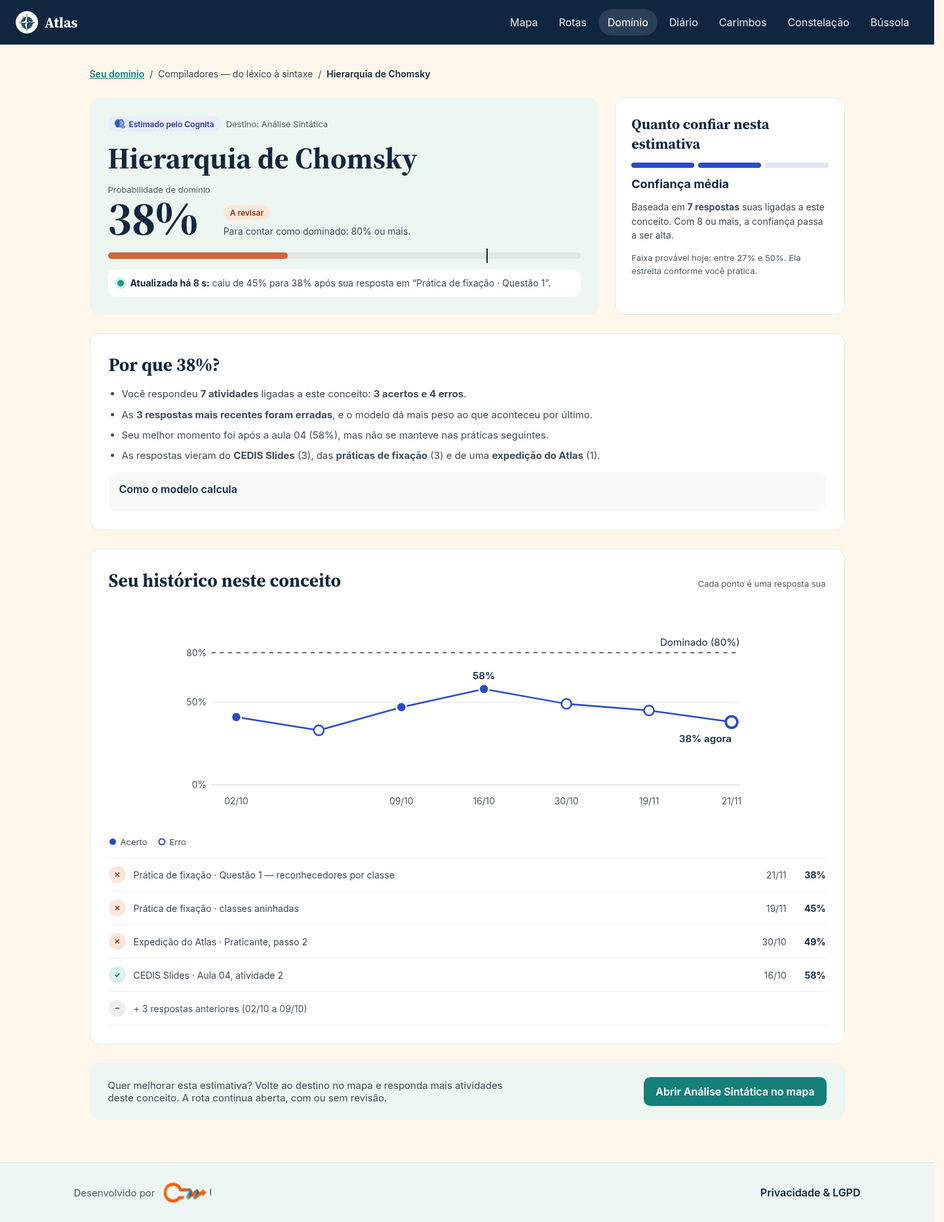
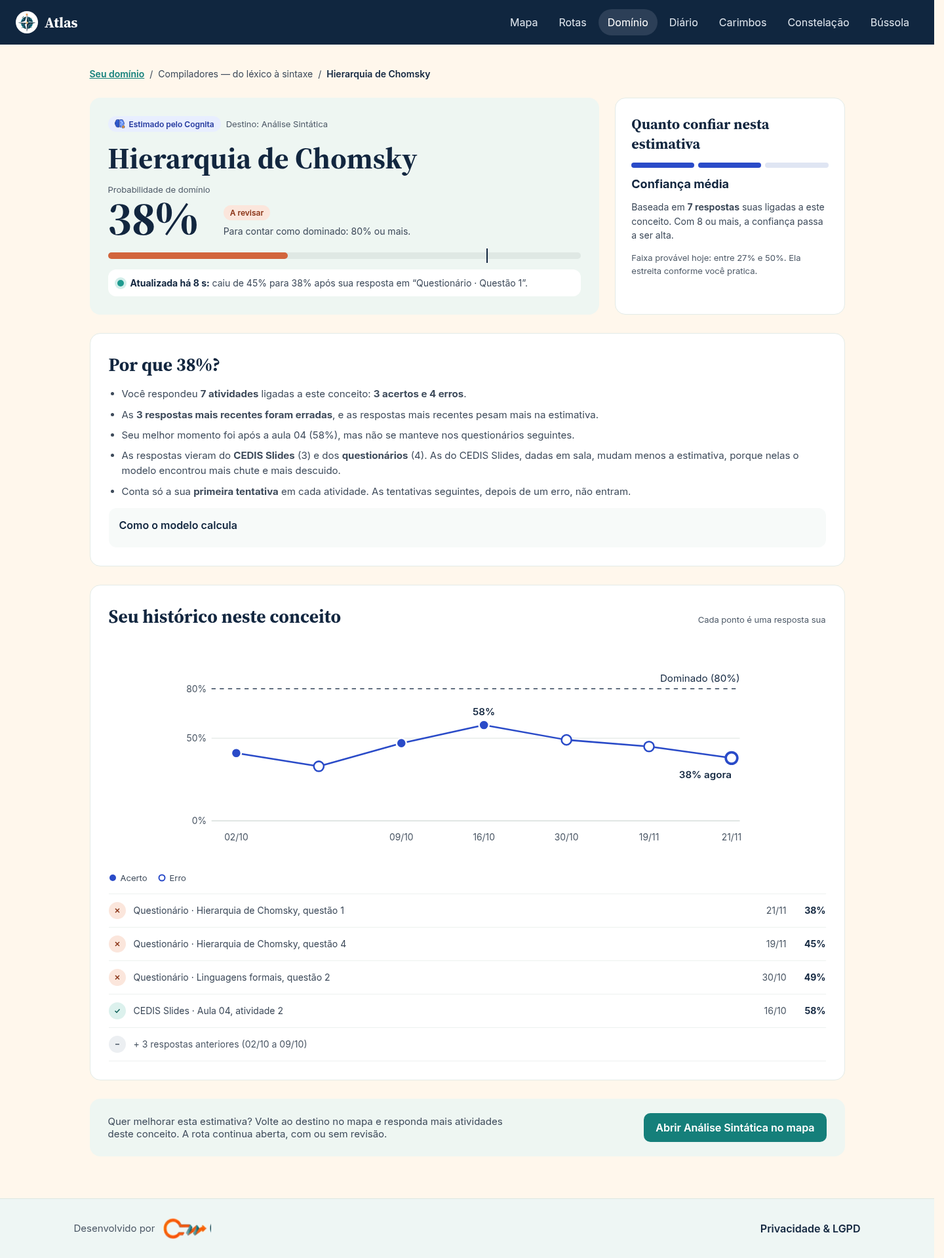
ajusta prototipos

diff --git a/editaveis/capitulos/5-planejamento.tex b/editaveis/capitulos/5-planejamento.tex
@@ -78,7 +78,7 @@ A Tabela~\ref{tab:comparativo-alternativas} sintetiza a comparação entre o ALE
 \legend{Fonte: Elaborado pelos autores.}
 \end{table}
 
-Dessa forma, enquanto o ALEKS inspira a representação estruturada do domínio conceitual e a CENTURY Tech referencia a entrega simultânea de diagnósticos acionáveis para estudantes e professores, o módulo Cognita diferencia-se por transpor essas capacidades para a arquitetura distribuída do Ecossistema CEDIS. Em vez de exigir que docentes e alunos migrem para uma ferramenta externa, o Cognita aproveita os \textit{decks} publicados no Deck Manager, as respostas coletadas em sala pelo CEDIS Slides, a estruturação semântica do Concept Studio e do Atlas do Conhecimento e a gestão de identidade consentida do Learning Passport.
+Dessa forma, enquanto o ALEKS inspira a representação estruturada do domínio conceitual e a CENTURY Tech referencia a entrega simultânea de diagnósticos acionáveis para estudantes e professores, o módulo Cognita diferencia-se por transpor essas capacidades para a arquitetura distribuída do Ecossistema CEDIS. Em vez de exigir que docentes e alunos migrem para uma ferramenta externa, o Cognita aproveita os \textit{decks} publicados no Deck Manager, as respostas coletadas em sala pelo CEDIS Slides, os conceitos e os questionários do Concept Studio + Questionários, a exploração de conceitos no Atlas do Conhecimento e a gestão de identidade consentida do Learning Passport.
 
 \subsubsection{Delimitação de Escopo: É/Não é/Faz/Não faz}
 \label{subsubsec:e-nao-e-faz-nao-faz}
@@ -106,7 +106,7 @@ O desdobramento analítico de cada quadrante da Figura~\ref{fig:detalhes-modulo}
 
     \item \textbf{O software NÃO É (Restrições de identidade do sistema):}
     \begin{itemize}
-        \item \textbf{Independente:} O Cognita não opera de forma isolada (\textit{standalone}), dependendo estruturalmente da coleta de respostas no CEDIS Slides, da gestão operacional do Deck Manager e do mapeamento semântico de conceitos realizado no Concept Studio e no Atlas do Conhecimento.
+        \item \textbf{Independente:} O Cognita não opera de forma isolada (\textit{standalone}), dependendo estruturalmente da coleta de respostas no CEDIS Slides, da gestão operacional do Deck Manager e do mapeamento de conceitos e dos questionários do Concept Studio + Questionários.
         \item \textbf{Um sistema que identifica estudantes:} Em conformidade estrita com os princípios de \textit{Privacy by Design} \cite{cavoukian_privacy_2009} e a diretriz \textit{LGPD-first} do ecossistema, o módulo não atua como ferramenta de identificação civil ou vigilância individualizada. A associação longitudinal de interações apoia-se exclusivamente em identificadores pseudonimizados de passaportes com consentimento explícito (\textit{opt-in}), gerido pelo CEDIS Learning Passport.
         \item \textbf{Um Sistema de Tutor Inteligente (\textit{Intelligent Tutoring System}, ITS):} Diferentemente de um ITS completo, que controla o fluxo instrucional passo a passo, ministra explicações teóricas automatizadas e gera novos problemas em tempo real, o Cognita atua especificamente na camada diagnóstica de rastreamento de conhecimento (\textit{Knowledge Tracing}), delegando a autoria e a apresentação de conteúdos aos produtos existentes do ecossistema.
         \item \textbf{Um avaliador oficial de nota ou aprovação:} O módulo possui caráter estritamente formativo e diagnóstico, não substituindo instrumentos somativos formais nem detendo autoridade acadêmica para atribuir menções ou aprovar/reprovar discentes.
@@ -332,7 +332,7 @@ O fluxo detalhado na Figura~\ref{fig:jornada-persona-3} evidencia o papel do Cog
     \item \textbf{Gatilho de demanda profissional:} Surge no ambiente de trabalho uma necessidade concreta de qualificação, como a demanda de sua liderança por profissionais com domínio em qualidade de software;
     \item \textbf{Descoberta de conteúdo aberto no ecossistema:} Ao final do expediente, buscando materiais técnicos de referência para estudo independente, o profissional localiza um \textit{deck} público no \textbf{CEDIS Slides} voltado ao tema desejado;
     \item \textbf{Adesão ao passaporte de aprendizagem:} Reconhecendo o valor do ecossistema para sua evolução profissional, cria seu passaporte no \textbf{CEDIS Learning Passport} a fim de manter o registro persistente de sua trajetória de estudos;
-    \item \textbf{Exploração autônoma e prática:} Utilizando seu tempo livre semanal, navega pelos mapas conceituais do \textbf{Atlas do Conhecimento} e pelos \textit{decks} públicos, respondendo aos questionários e atividades dos temas que deseja dominar;
+    \item \textbf{Exploração autônoma e prática:} Utilizando seu tempo livre semanal, navega pelos mapas conceituais do \textbf{Atlas do Conhecimento} e pelos \textit{decks} públicos, respondendo às atividades dos \textit{decks} e aos questionários do \textbf{Concept Studio + Questionários} sobre os temas que deseja dominar;
     \item \textbf{Barreira na autoavaliação conceitual (Ponto de dor):} Ao deparar-se com questões teóricas mais profundas, comete erros e, por estudar de forma independente sem o suporte de um professor ou orientador acadêmico, não consegue diagnosticar sozinho qual conceito de base está faltando em sua formação prática;
     \item \textbf{Diagnóstico de lacunas no Módulo Cognita (Ponto de contato central):} O estudante consulta o \textbf{Módulo Cognita} para identificar objetivamente quais conceitos fundamentais ainda não domina, distinguindo com nitidez o conhecimento prático já consolidado das lacunas teóricas ocultas;
     \item \textbf{Estudo orientado pelo Cognita:} Utiliza a recomendação do Cognita como um guia de estudos, na ausência de uma grade curricular, dirigindo-se diretamente aos materiais dos conceitos pré-requisitos indicados no \textbf{Atlas do Conhecimento};
@@ -548,7 +548,7 @@ RF05 & EP01 & Registro de métricas de predição & O sistema deverá registrar 
 \hline
 RF06 & EP02 & Probabilidade de domínio por conceito & O estudante deverá visualizar, no Atlas, a probabilidade de domínio de cada conceito de um curso, para que compreenda o seu nível de aprendizado em cada conceito. \\
 \hline
-RF07 & EP02 & Atualização das estimativas por interação & O sistema deverá atualizar as estimativas de predição a cada nova interação do estudante no Atlas, para que o estudante visualize o estado de domínio mais recente. \\
+RF07 & EP02 & Atualização das estimativas por interação & O sistema deverá atualizar as estimativas de predição a cada nova resposta do estudante às atividades e aos questionários, para que o estudante visualize o estado de domínio mais recente. \\
 \hline
 RF08 & EP02 & Conceitos priorizados para revisão & O estudante deverá visualizar, no Atlas, a lista dos conceitos ainda não dominados de um curso, ordenados por prioridade de revisão, para que saiba quais conceitos revisar primeiro. \\
 \hline
@@ -876,7 +876,7 @@ As entidades internas do \textit{manager}, como \textit{DeckEvent}, \textit{Deck
 
 \begin{itemize}
     \item \textbf{Matriz Q:} o vínculo entre \textit{QuestionActivityMap} e as questões do \textit{cedis-atlas}, que associa cada atividade e questão ao conceito avaliado (\texttt{concept\_id});
-    \item \textbf{Desempenho observado:} as respostas registradas em \textit{activity\_responses} e nos questionários do \textit{cedis-atlas}, das quais se extrai a observação $a_t$;
+    \item \textbf{Desempenho observado:} as respostas às atividades, registradas em \textit{activity\_responses}, e as respostas aos questionários do Concept Studio + Questionários, mantidas pelo \textit{cedis-atlas}, das quais se extrai a observação $a_t$;
     \item \textbf{Reconciliação e ordenação temporal:} a entidade \textit{LearningAnalyticsIngestLink}, que vincula o evento de aprendizagem à resposta persistida e fornece os carimbos de tempo necessários para ordenar a sequência $X = \{(q_1, a_1), \ldots, (q_t, a_t)\}$;
     \item \textbf{Identidade longitudinal consentida:} o vínculo de \textit{LearningAnalyticsIngestLink} com o Learning Passport (\texttt{identity\_person\_id}), que permite acompanhar o estudante ao longo do tempo apenas quando há consentimento ativo, superando a rotação diária do identificador de telemetria.
 \end{itemize}
@@ -931,7 +931,7 @@ A Tabela~\ref{tab:apis-ecossistema} sistematiza as APIs e os serviços relevante
 \hline
 \textbf{Identity Suite / Learning Passport} (\textit{cedis-identity-\allowbreak suite}) & Gestão de identidade persistente pseudonimizada, grupos, contexto acadêmico e controle de consentimento (\textit{opt-in}) e governança de dados pelo estudante (LGPD). & Identificador longitudinal consentido de pessoa (\textit{identity\_person\_id}), grupo/turma (\textit{identity\_group\_id}), contexto (\textit{identity\_context\_id}) e estado ativo de consentimento do titular. & Contrato interno de resolução opcional de identidade/contexto acionado pelo \textit{cedis-la-ingest} sob \textit{opt-in}; autenticação federada e gestão de consentimento. \\
 \hline
-\textbf{Atlas do Conhecimento e Concept Studio} (\textit{cedis-atlas}) & Estruturação semântica de mapas conceituais, manutenção do banco de conceitos e questões, e interface discente de exploração e prática. & Grafo de conceitos (\textit{Knowledge Concepts}, KC), associação entre questões (\textit{question\_id}) e conceitos (matriz Q), histórico de prática e estrutura de navegação conceitual do estudante. & Integração lógica com o \textit{manager} via \textit{question\_\allowbreak activity\_map} e contratos compartilhados de conteúdo via \textit{cedis-core}. \\
+\textbf{Atlas do Conhecimento e Concept Studio} (\textit{cedis-atlas}) & Estruturação semântica de mapas conceituais, manutenção do banco de conceitos e questões, interface discente de exploração dos conceitos (Atlas) e de resposta aos questionários (Concept Studio + Questionários). & Grafo de conceitos (\textit{Knowledge Concepts}, KC), associação entre questões (\textit{question\_id}) e conceitos (matriz Q), respostas aos questionários e estrutura de navegação conceitual do estudante. & Integração lógica com o \textit{manager} via \textit{question\_\allowbreak activity\_map} e contratos compartilhados de conteúdo via \textit{cedis-core}. \\
 \hline
 \textbf{CEDIS Learning Analytics} & Consolidação transversal de indicadores pedagógicos, \textit{dashboards} de turmas e correlações analíticas para apoio à decisão docente. & Indicadores agregados por curso, turma e atividade, séries temporais de engajamento e distribuição de respostas sob políticas de supressão por \textit{k}-anonimato. & Consumo das APIs internas de agregação e telemetria autenticadas via OAuth2/OIDC com controle de acesso baseado em papel (\textit{role}). \\
 \hline
@@ -952,7 +952,7 @@ O levantamento das APIs evidenciou ainda quatro restrições que condicionam o c
 \subsection{Arquitetura Proposta para o Cognita}
 \label{subsec:arquitetura-proposta}
 
-A arquitetura do Cognita foi projetada a partir da arquitetura atual, das APIs existentes e dos requisitos da Seção~\ref{sec:requisitos}. Conforme a delimitação de escopo (Seção~\ref{subsubsec:e-nao-e-faz-nao-faz}), o Cognita não possui interface própria: trata-se de um serviço acoplado ao CEDIS Learning Analytics, cujas funcionalidades aparecem nas interfaces das seis aplicações existentes do ecossistema por meio de APIs internas. Para conciliar consultas de baixa latência com o treinamento em lote do modelo, a arquitetura separa o caminho de inferência, executado a cada nova resposta, do caminho de treinamento, executado periodicamente \cite{kleppmann_designing_2017, bass_software_2021}. A Figura~\ref{fig:arquitetura-cognita} apresenta as fontes de dados consumidas (à esquerda), os seis componentes internos e o banco de dados do módulo (ao centro) e as aplicações que exibem os resultados (à direita).
+A arquitetura do Cognita foi projetada a partir da arquitetura atual, das APIs existentes e dos requisitos da Seção~\ref{sec:requisitos}. Conforme a delimitação de escopo (Seção~\ref{subsubsec:e-nao-e-faz-nao-faz}), o Cognita não possui interface própria: trata-se de um serviço acoplado ao CEDIS Learning Analytics, cujas funcionalidades aparecem nas interfaces das aplicações existentes do ecossistema por meio de APIs internas. Para conciliar consultas de baixa latência com o treinamento em lote do modelo, a arquitetura separa o caminho de inferência, executado a cada nova resposta, do caminho de treinamento, executado periodicamente \cite{kleppmann_designing_2017, bass_software_2021}. A Figura~\ref{fig:arquitetura-cognita} apresenta as fontes de dados consumidas (à esquerda), os seis componentes internos e o banco de dados do módulo (ao centro) e as aplicações que exibem os resultados (à direita).
 
 \begin{figure}[H]
 \caption{Arquitetura proposta do Cognita integrada ao ecossistema}
@@ -965,7 +965,7 @@ A arquitetura do Cognita foi projetada a partir da arquitetura atual, das APIs e
 Os seis componentes representados na Figura~\ref{fig:arquitetura-cognita} têm as seguintes responsabilidades:
 
 \begin{enumerate}
-    \item \textbf{Conector de Ingestão, Validação e Reconciliação:} consome as respostas do CEDIS Slides e do Atlas do Conhecimento, os eventos do \textit{cedis-la-ingest}, o estado de consentimento do Learning Passport, os vínculos e a seleção de \textit{decks} do \textit{manager} e a estrutura de conceitos do \textit{cedis-atlas}. Aplica os critérios de inclusão descritos na Seção~\ref{subsubsec:oe4}, entre eles o consentimento ativo (RNF14) e a habilitação do \textit{deck} pelo docente (RF04), trata as inconsistências recuperáveis, como envios duplicados, e registra os descartes com o respectivo motivo em uma tabela de auditoria (RF03 e RNF07);
+    \item \textbf{Conector de Ingestão, Validação e Reconciliação:} consome as respostas do CEDIS Slides e do Concept Studio + Questionários, os eventos do \textit{cedis-la-ingest}, o estado de consentimento do Learning Passport, os vínculos e a seleção de \textit{decks} do \textit{manager} e a estrutura de conceitos do \textit{cedis-atlas}. Aplica os critérios de inclusão descritos na Seção~\ref{subsubsec:oe4}, entre eles o consentimento ativo (RNF14) e a habilitação do \textit{deck} pelo docente (RF04), trata as inconsistências recuperáveis, como envios duplicados, e registra os descartes com o respectivo motivo em uma tabela de auditoria (RF03 e RNF07);
     \item \textbf{Engenharia de Atributos e Sequenciamento:} constrói a Matriz Q a partir dos vínculos entre questões e conceitos, importa as relações de pré-requisito do Concept Studio, extrai a observação $a_t$ da primeira tentativa de cada resposta, registra a sua origem (atividade em sala de aula ou questionário individual) e ordena as respostas de cada estudante por conceito, produzindo as sequências consumidas pelo BKT;
     \item \textbf{Motor de Treinamento BKT e \textit{Quality Gate}:} estima os parâmetros do BKT por conceito, com chute e descuido distintos por origem e parâmetros globais para os conceitos com poucas respostas (Seção~\ref{subsubsec:oe4}). O treinamento é disparado por agendamento ou por volume de novas respostas, conforme a política de treino (RF02 e RF04), e é executado em segundo plano, com duração máxima de 6 horas (RNF11). Cada versão candidata é avaliada por validação cruzada agrupada por estudante e só é promovida se superar o modelo de referência e não reduzir a AUC do modelo vigente em mais de 0,01 (RNF05). Caso contrário, a versão anterior permanece em operação (RNF06);
     \item \textbf{Motor de Inferência, Priorização e Explicabilidade:} a cada nova resposta válida, atualiza a probabilidade de domínio do estudante no conceito correspondente por meio das Equações~\ref{eq:bkt-correta} a~\ref{eq:bkt-transicao}, em até 60 segundos (RNF10), e registra a variação na série histórica. Com base nessa probabilidade e nos limiares da Tabela~\ref{tab:limiares}, classifica o conceito como dominado, em progresso, a revisar ou sem evidências, calcula o grau de confiança da estimativa e gera a lista \textit{Revise primeiro}, que prioriza os conceitos de menor domínio que servem de pré-requisito para os próximos destinos da rota do estudante. Também estrutura os motivos da estimativa em linguagem acessível, como o total de acertos e erros e a origem das respostas;
@@ -1015,7 +1015,7 @@ A Tabela~\ref{tab:entidades-cognita} seleciona, a partir do modelo de dados e do
 \hline
 \textit{User} (\textit{Person}) & \textit{manager} & \textit{id}, \textit{oidc\_sub}, \textit{role}, \textit{account\_status} & Autenticação e controle de acesso de docentes e administradores às visões do curso no Learning Analytics, no Concept Studio e à seleção de \textit{decks} de treino no Deck Manager. \\
 \hline
-\textit{Questões, Conceitos e Relações} (\textit{Dominio\_\allowbreak Atlas\_Questao}) & \textit{cedis-atlas} / Concept Studio / \textit{cedis-core} & \textit{question\_id}, \textit{concept\_id}, relações entre conceitos (pré-requisito, hierarquia, relacionado), destino da rota e gabarito & Define os conceitos (\textit{Knowledge Concepts}, KC), a Matriz Q questão-conceito, as práticas/expedições do Atlas e as relações de pré-requisito usadas na priorização de revisão (\textit{Revise primeiro}) e na explicação de baixa absorção. \\
+\textit{Questões, Conceitos e Relações} (\textit{Dominio\_\allowbreak Atlas\_Questao}) & \textit{cedis-atlas} / Concept Studio / \textit{cedis-core} & \textit{question\_id}, \textit{concept\_id}, relações entre conceitos (pré-requisito, hierarquia, relacionado), destino da rota e gabarito & Define os conceitos (\textit{Knowledge Concepts}, KC), a Matriz Q questão-conceito, os questionários do Concept Studio + Questionários e as relações de pré-requisito usadas na priorização de revisão (\textit{Revise primeiro}) e na explicação de baixa absorção. \\
 \hline
 \textit{Passaporte e Consentimento} (\textit{Dominio\_\allowbreak Identity\_Suite}) & \textit{cedis-identity-\allowbreak suite} (Learning Passport) & \textit{identity\_person\_id}, \textit{identity\_group\_id}, \textit{identity\_context\_id}, chave de autorização do Cognita (\textit{opt-in}) e evento de exclusão & Garante que o Cognita processe e exiba estimativas individuais apenas para passaportes com autorização ativa e aciona a exclusão exclusiva dos dados preditivos em até 48 horas. \\
 \hline
@@ -1066,11 +1066,11 @@ O modelo é composto por oito tabelas, dispostas da esquerda para a direita segu
 \hline
 \textit{ConsentSubject} & \textit{identity\_person\_id} (PK lógica oriunda do Learning Passport); relaciona-se $1:N$ com \textit{ReconciledInteraction} e \textit{StudentConceptMastery} com \texttt{ON DELETE CASCADE}. & Entidade âncora de governança LGPD que representa o passaporte pseudonimizado com autorização ativa para o Cognita (\textit{consent\_active}). A exclusão de um registro nesta tabela propaga o expurgo físico imediato, em cascata, apenas dos dados preditivos e históricos no Cognita, preservando os demais dados do aluno no ecossistema. \\
 \hline
-\textit{Reconciled\allowbreak Interaction} & \texttt{id} (PK), \textit{identity\_person\_id} (FK \texttt{CASCADE}), \textit{response\_id} (UQ lógico), \textit{ingest\_event\_id} (UQ lógico); relaciona-se $1:N$ com \textit{StudentMasteryHistory}. & Materializa a resposta validada de um \textit{deck} elegível ou prática do Atlas associada à Matriz Q (\textit{question\_id} e \textit{concept\_id}), registrando o resultado binário $a_t \in \{0, 1\}$ (\textit{is\_correct}), a origem (\textit{interaction\_origin}: CEDIS Slides, prática de fixação ou expedição do Atlas), o curso/turma (\textit{identity\_context\_id}) e o instante em UTC. \\
+\textit{Reconciled\allowbreak Interaction} & \texttt{id} (PK), \textit{identity\_person\_id} (FK \texttt{CASCADE}), \textit{response\_id} (UQ lógico), \textit{ingest\_event\_id} (UQ lógico); relaciona-se $1:N$ com \textit{StudentMasteryHistory}. & Materializa a resposta validada a uma atividade de \textit{deck} elegível ou a um questionário, associada à Matriz Q (\textit{question\_id} e \textit{concept\_id}), registrando o resultado binário $a_t \in \{0, 1\}$ (\textit{is\_correct}), a origem (\textit{interaction\_origin}: atividade em sala de aula no CEDIS Slides ou questionário individual no Concept Studio + Questionários), o curso/turma (\textit{identity\_context\_id}) e o instante em UTC. \\
 \hline
 \textit{StudentConcept\allowbreak Mastery} & \texttt{id} (PK), \textit{identity\_person\_id} (FK \texttt{CASCADE}), \textit{model\_version\_id} (FK); unicidade por (estudante, conceito, contexto); relaciona-se $1:N$ com \textit{StudentMasteryHistory}. & Representa o estado cognitivo atual do estudante em cada conceito: probabilidade $P(L_t)$ (\textit{p\_mastery}), situação (\textit{mastery\_status}: dominado $\ge 80\%$, em progresso $50\%$ a $79\%$, a revisar $< 50\%$ ou sem evidências), faixa provável (\textit{prob\_interval\_low/high}), prioridade de revisão ponderada por pré-requisitos (\textit{review\_priority\_score}), confiança (\textit{alta} $\ge 8$, \textit{média} $3$ a $7$, \textit{baixa} $\le 2$ evidências), contadores de tentativas/acertos e motivos em JSON (\textit{explanation\_json}). \\
 \hline
-\textit{StudentMastery\allowbreak History} & \texttt{id} (PK), \textit{mastery\_id} (FK \texttt{CASCADE}), \textit{reconciled\_interaction\_id} (FK), \textit{model\_version\_id} (FK). & Armazena a série temporal longitudinal das estimativas a cada resposta processada, registrando a probabilidade anterior $P(L_t)$ (\textit{p\_mastery\_before}), a probabilidade atualizada $P(L_{t+1})$ (\textit{p\_mastery\_after}), a confiança e a data em UTC (\textit{recorded\_at}), alimentando o gráfico individual no Atlas, o quadro pós-prática no Slides e a evolução semanal da turma no Analytics. \\
+\textit{StudentMastery\allowbreak History} & \texttt{id} (PK), \textit{mastery\_id} (FK \texttt{CASCADE}), \textit{reconciled\_interaction\_id} (FK), \textit{model\_version\_id} (FK). & Armazena a série temporal longitudinal das estimativas a cada resposta processada, registrando a probabilidade anterior $P(L_t)$ (\textit{p\_mastery\_before}), a probabilidade atualizada $P(L_{t+1})$ (\textit{p\_mastery\_after}), a confiança e a data em UTC (\textit{recorded\_at}), alimentando o gráfico individual no Atlas, o quadro exibido após cada resposta a um questionário no Concept Studio + Questionários e a evolução semanal da turma no Analytics. \\
 \hline
 \end{longtable}
 }
@@ -1086,7 +1086,7 @@ Três decisões de projeto desse modelo merecem destaque:
 \section{Prototipação das Telas}
 \label{sec:prototipacao}
 
-Com os requisitos definidos e priorizados, foram elaborados protótipos de alta fidelidade das telas do Cognita, com o objetivo de validar, antes da implementação, como as estimativas de domínio serão apresentadas ao estudante e ao professor. Como o Cognita é um módulo integrado ao ecossistema, e não um novo software, os protótipos não descrevem uma aplicação própria: eles mostram como as funcionalidades do módulo aparecem dentro das aplicações já existentes do CEDIS, que são o Atlas, o CEDIS Slides, o Learning Analytics, o Concept Studio, o Deck Manager e o Learning Passport.
+Com os requisitos definidos e priorizados, foram elaborados protótipos de alta fidelidade das telas do Cognita, com o objetivo de validar, antes da implementação, como as estimativas de domínio serão apresentadas ao estudante e ao professor. Como o Cognita é um módulo integrado ao ecossistema, e não um novo software, os protótipos não descrevem uma aplicação própria: eles mostram como as funcionalidades do módulo aparecem dentro das aplicações já existentes do CEDIS, que são o Atlas do Conhecimento, o Learning Analytics, o Concept Studio + Questionários, o Deck Manager e o Learning Passport.
 
 Cada tela foi desenhada a partir de um conjunto de requisitos funcionais do MVP, indicados na legenda de cada figura, de modo que todos os requisitos do MVP estão representados em pelo menos uma tela. Os requisitos dos incrementos (RF14, RF21, RF22, RF23 e RF25) não foram prototipados, pois não serão entregues no desenvolvimento. Para manter a coerência entre as telas, todos os protótipos utilizam um mesmo cenário fictício: a disciplina de Compiladores, ministrada por uma professora, e um estudante identificado apenas pelo pseudônimo do seu passaporte.
 
@@ -1103,7 +1103,7 @@ A principal tela do estudante é a página \textit{Seu domínio}, no Atlas, apre
 \legend{Fonte: Elaborado pelos autores.}
 \end{figure}
 
-Ao selecionar a opção \textit{Entender estimativa}, o estudante acessa o detalhe do conceito, apresentado na Figura~\ref{fig:prototipo-atlas-detalhe}. A tela mostra a probabilidade de domínio atual e a última variação causada por uma resposta (RF07), além de um quadro que explica o quanto confiar na estimativa e qual é a sua faixa provável (RF16). O bloco \textit{Por que 38\%?} descreve, em linguagem acessível, os motivos que levaram à estimativa, como a quantidade de acertos e erros, o peso das respostas mais recentes e a origem das atividades (RF17). Por fim, o gráfico \textit{Seu histórico neste conceito} exibe a evolução da estimativa ao longo do tempo, com cada ponto correspondendo a uma resposta do estudante (RF09).
+Ao selecionar a opção \textit{Entender estimativa}, o estudante acessa o detalhe do conceito, apresentado na Figura~\ref{fig:prototipo-atlas-detalhe}. A tela mostra a probabilidade de domínio atual e a última variação causada por uma resposta (RF07), além de um quadro que explica o quanto confiar na estimativa e qual é a sua faixa provável (RF16). O bloco \textit{Por que 38\%?} descreve, em linguagem acessível, os motivos que levaram à estimativa, como a quantidade de acertos e erros, o efeito das respostas mais recentes e a origem das respostas (RF17). Por fim, o gráfico \textit{Seu histórico neste conceito} exibe a evolução da estimativa ao longo do tempo, com cada ponto correspondendo a uma resposta do estudante (RF09).
 
 \begin{figure}[H]
 \caption{Protótipo do detalhe de um conceito no Atlas (RF07, RF09, RF16 e RF17)}
@@ -1113,13 +1113,13 @@ Ao selecionar a opção \textit{Entender estimativa}, o estudante acessa o detal
 \legend{Fonte: Elaborado pelos autores.}
 \end{figure}
 
-A atualização das estimativas também é percebida fora do Atlas. A Figura~\ref{fig:prototipo-slides} mostra uma questão de prática no CEDIS Slides: após o envio da resposta, um quadro informa como o domínio dos conceitos ligados à questão foi alterado (RF07) e oferece um atalho para a página \textit{Seu domínio}. O quadro só é exibido quando o Learning Passport do estudante está ativo e com o Cognita autorizado.
+A atualização das estimativas também é percebida fora do Atlas. A Figura~\ref{fig:prototipo-questionario} mostra uma questão de um questionário no Concept Studio + Questionários: após o envio da resposta, um quadro informa como o domínio dos conceitos ligados à questão foi alterado (RF07) e oferece um atalho para a página \textit{Seu domínio}. O quadro só é exibido quando o Learning Passport do estudante está ativo e com o Cognita autorizado.
 
 \begin{figure}[H]
-\caption{Protótipo da atualização da estimativa após uma prática no CEDIS Slides (RF07)}
-\label{fig:prototipo-slides}
+\caption{Protótipo da atualização da estimativa após uma resposta a um questionário no Concept Studio + Questionários (RF07)}
+\label{fig:prototipo-questionario}
 \centering
-\includegraphics[width=0.85\textwidth,height=0.72\textheight,keepaspectratio]{figuras/prototipo/slides-pratica-enviada-rf07.png}
+\includegraphics[width=0.85\textwidth,height=0.72\textheight,keepaspectratio]{figuras/prototipo/questionario-resposta-enviada-rf07.png}
 \legend{Fonte: Elaborado pelos autores.}
 \end{figure}
 

diff --git a/editaveis/capitulos/3-metodologia.tex b/editaveis/capitulos/3-metodologia.tex
@@ -239,7 +239,7 @@ Em relação à proposta original, além do formato de execução, a dinâmica d
 
 \textbf{Atividade 11 (A11): Caracterização dos dados disponíveis.} O Ecossistema CEDIS encontra-se em produção desde agosto de 2026 e, no momento da elaboração desta monografia, é utilizado por um único docente, em uma turma de aproximadamente 60 estudantes. Como esse cenário pode se alterar até o início da Fase 2, a primeira atividade consiste em uma análise exploratória dos dados efetivamente disponíveis, quantificando: (i) o número de estudantes com passaporte e consentimento ativo no Learning Passport; (ii) o número de respostas a atividades objetivas; (iii) o número de conceitos cadastrados e a proporção de atividades vinculadas a conceitos por meio de \textit{QuestionActivityMap}; e (iv) o número médio de respostas por estudante e por conceito. Serão considerados os dados registrados desde o início do uso do ecossistema até o início da Fase 2, complementados pelos dados que vierem a ser coletados durante o semestre 2027.1. O resultado dessa caracterização determina quais conceitos possuem dados suficientes para a estimação de parâmetros próprios (A14) e fundamenta o procedimento de validação adotado (A15).
 
-\textbf{Atividade 12 (A12): Implementação da ingestão, validação e reconciliação dos dados.} O conector de ingestão do Cognita (Seção~\ref{subsec:arquitetura-proposta}) consome as respostas registradas no CEDIS Slides e no Atlas do Conhecimento e as reconcilia com os eventos de \textit{Learning Analytics}, os vínculos questão-conceito e a identidade consentida. Uma resposta é considerada apta ao treinamento quando atende simultaneamente aos seguintes critérios de inclusão:
+\textbf{Atividade 12 (A12): Implementação da ingestão, validação e reconciliação dos dados.} O conector de ingestão do Cognita (Seção~\ref{subsec:arquitetura-proposta}) consome as respostas registradas no CEDIS Slides e no Concept Studio + Questionários e as reconcilia com os eventos de \textit{Learning Analytics}, os vínculos questão-conceito e a identidade consentida. Uma resposta é considerada apta ao treinamento quando atende simultaneamente aos seguintes critérios de inclusão:
 
 \begin{enumerate}
     \item pertence a uma atividade objetiva, isto é, que possui resposta correta definida (como múltipla escolha ou verdadeiro ou falso), sendo excluídas as escalas do tipo Likert e as respostas de texto aberto, que não admitem classificação em correta ou incorreta;
@@ -250,7 +250,7 @@ Em relação à proposta original, além do formato de execução, a dinâmica d
 
 Atualmente, as atividades do ecossistema permitem que o estudante, ao errar uma questão, selecione outra alternativa até acertá-la ou optar por avançar. As tentativas posteriores ao primeiro erro, contudo, refletem a eliminação de alternativas já descartadas e o \textit{feedback} recebido, e não o conhecimento que o estudante possuía ao se deparar com a questão. Por esse motivo, considera-se apenas a \textbf{primeira tentativa} de cada estudante em cada atividade, e as tentativas subsequentes são registradas como dados tratados no \textit{log} de auditoria. Os registros que não atenderem aos critérios de inclusão também são registrados nesse \textit{log}, com o motivo do descarte (RNF07).
 
-\textbf{Atividade 13 (A13): Construção da Matriz Q e das sequências de interação.} A partir dos vínculos entre atividades, questões e conceitos, constrói-se a Matriz Q do curso. No estado atual do Concept Studio, cada questão está associada a um único conceito; adota-se, portanto, a premissa de que cada resposta fornece evidência sobre exatamente um conceito, de modo que a Matriz Q possui um único conceito por linha. Em seguida, a correção da primeira tentativa de cada resposta apta é convertida na observação binária $a_t \in \{0, 1\}$, e as respostas de cada estudante são agrupadas por conceito e ordenadas cronologicamente segundo o instante de registro normalizado em UTC, produzindo as sequências $X = \{(q_1, a_1), \ldots, (q_t, a_t)\}$ consumidas pelo BKT (Seção~\ref{subsec:knowledge-tracing}). Cada observação mantém ainda a sua origem, que pode ser de dois tipos: as \textbf{atividades em sala de aula}, respondidas no CEDIS Slides durante a apresentação, nas quais o passaporte não é obrigatório; e os \textbf{questionários individuais}, respondidos no Atlas do Conhecimento e no Concept Studio fora da sala de aula, exclusivamente por meio do passaporte.
+\textbf{Atividade 13 (A13): Construção da Matriz Q e das sequências de interação.} A partir dos vínculos entre atividades, questões e conceitos, constrói-se a Matriz Q do curso. No estado atual do Concept Studio, cada questão está associada a um único conceito; adota-se, portanto, a premissa de que cada resposta fornece evidência sobre exatamente um conceito, de modo que a Matriz Q possui um único conceito por linha. Em seguida, a correção da primeira tentativa de cada resposta apta é convertida na observação binária $a_t \in \{0, 1\}$; nas questões que admitem mais de uma alternativa correta, apenas a resposta inteiramente correta é considerada acerto ($a_t = 1$), e respostas parcialmente corretas são tratadas como erro ($a_t = 0$). As respostas de cada estudante são, então, agrupadas por conceito e ordenadas cronologicamente segundo o instante de registro normalizado em UTC, produzindo as sequências $X = \{(q_1, a_1), \ldots, (q_t, a_t)\}$ consumidas pelo BKT (Seção~\ref{subsec:knowledge-tracing}). Cada observação mantém ainda a sua origem, que pode ser de dois tipos: as \textbf{atividades em sala de aula}, respondidas no CEDIS Slides durante a apresentação, nas quais o passaporte não é obrigatório; e os \textbf{questionários individuais}, respondidos no Concept Studio + Questionários fora da sala de aula, exclusivamente por meio do passaporte.
 
 \textbf{Atividade 14 (A14): Treinamento e retreinamento do modelo BKT.} O modelo será implementado com a biblioteca pyBKT \cite{badrinath_pybkt_2021}, que implementa o BKT e estima os seus parâmetros pelo algoritmo de Maximização da Expectativa (EM). Para cada conceito, são estimados os quatro parâmetros do modelo ($P(L_0)$, $P(T)$, $P(G)$ e $P(S)$) e verifica-se, após o ajuste, se os parâmetros de chute e descuido respeitam as restrições de plausibilidade $P(G) < 0{,}5$ e $P(S) < 0{,}5$ \cite{pelanek_bayesian_2017}. As duas origens de resposta, contudo, não oferecem a mesma qualidade de evidência: as atividades em sala de aula são realizadas em formato de jogo entre os estudantes, e não como avaliação, o que favorece acertos por chute e erros por descuido, enquanto os questionários são respondidos individualmente. Como o BKT não admite pesos por observação, essa diferença é incorporada por meio de parâmetros de chute e descuido distintos para cada origem, de forma análoga ao KT-IDEM, que estima esses parâmetros por item \cite{pardos_kt-idem_2011}. Assim, o menor peso das atividades em sala decorre dos próprios dados: quanto maiores os parâmetros de chute e descuido estimados para essa origem, menor é a alteração que uma resposta provoca na estimativa de domínio (Equações~\ref{eq:bkt-correta} e~\ref{eq:bkt-incorreta}), sem a necessidade de pesos arbitrados. Os conceitos que não atingirem o número mínimo de respostas definido na política de treino, ou cujos parâmetros violarem essas restrições, recebem parâmetros globais, estimados sobre o conjunto de todas as respostas aptas. Essa estratégia é necessária em razão do volume ainda reduzido de dados por conceito. O retreinamento segue a política configurada no Deck Manager (RF02 e RF04), e cada versão do modelo é registrada com seus parâmetros, período de dados e métricas (RNF13).
 

diff --git a/editaveis/capitulos/4-ecoCEDIS.tex b/editaveis/capitulos/4-ecoCEDIS.tex
@@ -140,7 +140,8 @@ A Figura~\ref{fig:fluxo-interacao-cedis} resume a integração entre os seis
 produtos. O docente organiza o conteúdo no Deck Manager, estrutura os
 conceitos e os questionários no Concept Studio e apresenta a aula pelo
 CEDIS Slides. O aluno responde às atividades em sala, responde aos
-questionários e explora os conceitos no Atlas do Conhecimento, e a sua
+questionários no Concept Studio + Questionários e explora os conceitos no
+Atlas do Conhecimento, e a sua
 aprendizagem é registrada, sob o seu controle, no Learning Passport. Por
 fim, os registros do ecossistema são consolidados no Learning Analytics,
 que apoia as decisões pedagógicas do docente.
@@ -187,8 +188,9 @@ o modo configurado. A camada de ingestão de \textit{Learning Analytics}
 (\textit{cedis-la-ingest}) recebe eventos padronizados de aprendizagem e
 seus vínculos com respostas e identidade. O serviço de identidade
 (\textit{cedis-identity-suite}) mantém dados de pessoa, grupo e contexto
-apenas quando o aluno opta por habilitá-los. O Atlas do Conhecimento
-(\textit{cedis-atlas}) mantém as questões relacionadas às atividades. Por
+apenas quando o aluno opta por habilitá-los. O serviço \textit{cedis-atlas}, que atende
+ao Atlas do Conhecimento e ao Concept Studio + Questionários, mantém os
+conceitos e as questões criadas no Concept Studio + Questionários. Por
 fim, o pacote \textit{cedis-core}, externo ao repositório do Deck Manager,
 fornece contratos e modelos de conteúdo compartilhados entre os
 componentes. A Tabela~\ref{tab:componentes-cedis} resume o papel, os
@@ -212,7 +214,7 @@ CEDIS Slides (\textit{slides-api}) & Plano público de resposta & Respostas de a
 \hline
 \textit{Identity Suite} (Learning Passport) & Identidade e contexto opcional & Pessoa, grupo e contexto, apenas quando habilitados pelo aluno \\
 \hline
-Atlas do Conhecimento & Questões e conteúdo & Questões relacionadas às atividades \\
+\textit{cedis-atlas} (Atlas do Conhecimento e Concept Studio + Questionários) & Conceitos e questões & Mapas conceituais, conceitos e questões vinculadas às atividades \\
 \hline
 \textit{cedis-core} & Modelos compartilhados & Contratos e modelos de conteúdo de versão/\textit{commit} compartilhados (dependência externa) \\
 \hline
@@ -262,7 +264,7 @@ privacidade.
 \hline
 \textit{DeckEvent} & Associado a um \textit{deck}; usuário opcional & Tipo do evento, atividade, código de sessão, identificador anônimo de visitante, classe de dispositivo e de origem, metadados \\
 \hline
-\textit{QuestionActivityMap} & Vincula um \textit{deck}/atividade a uma questão externa (Atlas) & Identificador da atividade, identificador da questão, data de criação \\
+\textit{QuestionActivityMap} & Vincula um \textit{deck}/atividade a uma questão externa (\textit{cedis-atlas}) & Identificador da atividade, identificador da questão, data de criação \\
 \hline
 \textit{LearningAnalyticsIngestLink} & Vincula um evento de \textit{Learning Analytics} a uma resposta e, opcionalmente, a uma identidade & Identificador do evento de ingestão, identificadores de pessoa/grupo/contexto, metadados \\
 \hline
@@ -277,7 +279,7 @@ privacidade.
 Do ponto de vista do objetivo deste trabalho, duas entidades merecem
 destaque. A primeira é \textit{QuestionActivityMap}, que estabelece o
 vínculo entre uma atividade de um \textit{deck} e uma questão do banco de
-conhecimento do Atlas, permitindo associar respostas a conceitos
+questões do \textit{cedis-atlas}, permitindo associar respostas a conceitos
 específicos, o que é pré-requisito para qualquer modelagem de \textit{Knowledge
 Tracing}. A segunda é \textit{LearningAnalyticsIngestLink}, que formaliza
 a reconciliação entre um evento padronizado de aprendizagem, uma resposta
@@ -406,6 +408,5 @@ causalidade pedagógica, e os próprios mecanismos de privacidade (DNT,
 filtragem de \textit{bots} e \textit{k}-anonimato) introduzem ausência
 intencional de dados. Por isso, este trabalho não reutiliza diretamente
 essas métricas: combina as respostas às atividades e aos questionários com
-o mapeamento atividade-conceito do Concept Studio e do Atlas do
-Conhecimento, de modo a estimar o domínio de conceitos de cada aluno por
+o mapeamento atividade-conceito do Concept Studio + Questionários, de modo a estimar o domínio de conceitos de cada aluno por
 meio do \textit{Knowledge Tracing}.

diff --git a/editaveis/capitulos/1-introducao.tex b/editaveis/capitulos/1-introducao.tex
@@ -10,7 +10,7 @@ O uso de plataformas digitais no ensino, tanto em ambientes virtuais quanto em s
 
 Para estimar o que o estudante efetivamente domina, a literatura propõe os modelos de \textit{Knowledge Tracing} (Rastreamento de Conhecimento), que inferem o domínio de cada conceito a partir do histórico de respostas do estudante e acompanham a sua evolução ao longo da prática \cite{corbett_knowledge_1994}. Desde o \textit{Bayesian Knowledge Tracing} (BKT), proposto na década de 1990, até os modelos baseados em redes neurais profundas \cite{piech_deep_2015}, a área evoluiu em capacidade preditiva. Trabalhos recentes, contudo, têm destacado a importância de que as estimativas sejam interpretáveis e se convertam em ações pedagógicas concretas, tanto para o estudante quanto para o docente \cite{cao_multi-granularity_2025, liao_naviedu_2026}.
 
-É nesse cenário que se insere o Ecossistema CEDIS, mantido pelo Centro de Estudo, Desenvolvimento e Inovação em Software (CEDIS) da Universidade de Brasília (UnB). O ecossistema reúne produtos integrados de apoio ao ensino: o docente cria e publica materiais no CEDIS Deck Manager e os apresenta em aula pelo CEDIS Slides, com atividades interativas; os conceitos da disciplina e os questionários vinculados a eles são estruturados no Concept Studio e explorados pelos estudantes no Atlas do Conhecimento; o CEDIS Learning Passport mantém a identidade do estudante, que só é vinculada às suas interações mediante consentimento; e o CEDIS Learning Analytics consolida os indicadores do ecossistema. Em produção desde agosto de 2026 e utilizado em uma disciplina da UnB, o ecossistema já registra respostas associadas a conceitos e permite acompanhá-las, de forma consentida, ao longo do tempo, reunindo as condições necessárias para a aplicação do rastreamento de conhecimento (Capítulo~\ref{cap:ecossistema}).
+É nesse cenário que se insere o Ecossistema CEDIS, mantido pelo Centro de Estudo, Desenvolvimento e Inovação em Software (CEDIS) da Universidade de Brasília (UnB). O ecossistema reúne produtos integrados de apoio ao ensino: o docente cria e publica materiais no CEDIS Deck Manager e os apresenta em aula pelo CEDIS Slides, com atividades interativas; os conceitos da disciplina e os questionários vinculados a eles são criados no Concept Studio + Questionários, no qual os estudantes também respondem aos questionários, e os conceitos são explorados pelos estudantes no Atlas do Conhecimento; o CEDIS Learning Passport mantém a identidade do estudante, que só é vinculada às suas interações mediante consentimento; e o CEDIS Learning Analytics consolida os indicadores do ecossistema. Em produção desde agosto de 2026 e utilizado em uma disciplina da UnB, o ecossistema já registra respostas associadas a conceitos e permite acompanhá-las, de forma consentida, ao longo do tempo, reunindo as condições necessárias para a aplicação do rastreamento de conhecimento (Capítulo~\ref{cap:ecossistema}).
 
 \section{Motivação}
 

diff --git a/tables/niveisLearningAnalytics.tex b/tables/niveisLearningAnalytics.tex
@@ -8,7 +8,7 @@
 \hline
 \textbf{Descritivo} \cite{siemens_learning_2012, lang_handbook_2017} & O que aconteceu? & Contagens de eventos, funis de navegação, visitantes por dia (\textit{visitor-days}) e distribuição bruta de respostas. & Telemetria operacional já existente no Deck Manager (\textit{DeckEvent}) e resumos de participação do CEDIS Slides. \\
 \hline
-\textbf{Diagnóstico} \cite{gaevic_learning_2015, cao_multi-granularity_2025} & Onde e por que ocorreu a lacuna de aprendizagem? & Reconciliação entre respostas e estrutura semântica do domínio (mapas conceituais e Matriz Q); isolamento de conceitos deficitários. & Cruzamento de respostas (\textit{activity\_responses}) com a Matriz Q do Atlas/Concept Studio para identificar conceitos com baixa absorção e explicar seus motivos. \\
+\textbf{Diagnóstico} \cite{gaevic_learning_2015, cao_multi-granularity_2025} & Onde e por que ocorreu a lacuna de aprendizagem? & Reconciliação entre respostas e estrutura semântica do domínio (mapas conceituais e Matriz Q); isolamento de conceitos deficitários. & Cruzamento de respostas (\textit{activity\_responses}) com a Matriz Q do Concept Studio + Questionários para identificar conceitos com baixa absorção e explicar seus motivos. \\
 \hline
 \textbf{Preditivo} \cite{corbett_knowledge_1994, pelanek_bayesian_2017} & Qual é o estado latente de domínio e o desempenho futuro esperado? & Modelos probabilísticos e sequenciais de \textit{Knowledge Tracing} (como o BKT) sobre trajetórias cronológicas $X = \{(q_1, a_1), \ldots, (q_t, a_t)\}$. & Estimação contínua da probabilidade de domínio $P(L_t)$ por estudante e conceito, atualizada recursivamente a cada nova interação no Cognita. \\
 \hline
